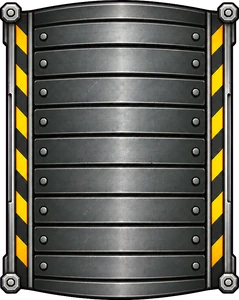
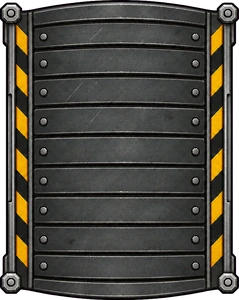
Стальной мост: матовый спрайт, земля у краёв, трава и мох на бортиках
Claude-Session: https://claude.ai/code/session_013R86rVRDV7uvtfdFLL6VJw

diff --git a/sw.js b/sw.js
@@ -1,6 +1,6 @@
-/* «Две базы» offline cache, version 2026.11.13-2150. A new version of this file makes phones fetch the new game;
+/* «Две базы» offline cache, version 2026.11.13-2212. A new version of this file makes phones fetch the new game;
    files whose content didn't change are copied from the old cache instead of downloaded again. */
-const V='dvebazy-2026.11.13-2150',H={"base_blue.webp": "3fa30d2184", "base_red.webp": "7dbdedfcd1", "crater.webp": "f8f526da4a", "crystal.webp": "3a4d69ffd7", "crystal_empty.webp": "e0bfd176b7", "desert.mp3": "4e820be7a4", "field_empty.webp": "1a89de323f", "field_full.webp": "5ce65390f6", "forest.mp3": "4d73b83bec", "hq_blue.webp": "9fd8e7e807", "hq_red.webp": "971d8873b5", "hv_e_blue.webp": "0fb54e58f2", "hv_e_red.webp": "dadb0cb8e0", "hv_f_blue.webp": "0eaca5d65e", "hv_f_red.webp": "1a6f973922", "intro.mp3": "d06e8482e9", "lost.mp3": "640926f4fa", "nuke.webp": "3bd289d94c", "ref_blue.webp": "55d23168b2", "ref_red.webp": "3c357584ff", "rocket.webp": "071c1a603f", "titan.mp3": "74a7fba796", "titan_hull_blue.webp": "b95fc02d02", "titan_hull_red.webp": "bc3479a55e", "titan_tur_blue.webp": "3a694cdb51", "titan_tur_red.webp": "4c836f3f95", "tw_can_blue.webp": "39c2cdb5df", "tw_can_red.webp": "11768d7b6d", "tw_mg_blue.webp": "f2a7462850", "tw_mg_red.webp": "b13edf318a", "tw_rkt_blue.webp": "890841b140", "tw_rkt_red.webp": "1cd20dd65c", "tw_tes_blue.webp": "f8dbac1346", "tw_tes_red.webp": "35dace5877", "victory.mp3": "86da21c965", "wave.webp": "02e3191a09", "winter.mp3": "c049c90e71", "voice_balist1.mp3": "a809bffd15", "voice_batk1.mp3": "bc1cce2b93", "voice_bomb1.mp3": "3e85b9b9dc", "voice_first1.mp3": "5d89f62894", "voice_first2.mp3": "6f591c10d3", "voice_first3.mp3": "de270f2917", "voice_first4.mp3": "52d929dd20", "voice_first5.mp3": "475b1aa197", "voice_first6.mp3": "d2ce90c984", "voice_first7.mp3": "222510fe73", "voice_hvdie1.mp3": "c1c6b9d714", "voice_loh1.mp3": "21e001d1e4", "voice_loh10.mp3": "41e66ff026", "voice_loh2.mp3": "e7da3dd047", "voice_loh3.mp3": "5cc145f5da", "voice_loh4.mp3": "58b7b9dbe7", "voice_loh5.mp3": "1426e425ce", "voice_loh6.mp3": "2053d0fb8a", "voice_loh7.mp3": "b546dc0fcb", "voice_loh8.mp3": "373d27d207", "voice_loh9.mp3": "ee76b7cbbf", "voice_lose1.mp3": "0965212c4d", "voice_lose2.mp3": "0272edf688", "voice_lose3.mp3": "fcb16aa0a5", "voice_lose4.mp3": "f4663fb4e3", "voice_lose5.mp3": "606ac4c1cf", "voice_lose6.mp3": "83a1fe1747", "voice_mazor1.mp3": "0a2f8341b5", "voice_mazor2.mp3": "2d0ef74267", "voice_mine2.mp3": "5ebf9d3ec6", "voice_mset1.mp3": "a35afbeb82", "voice_mvz1.mp3": "77e6ee09e0", "voice_mvz2.mp3": "fb090a12ca", "voice_nkb1.mp3": "52d38c9324", "voice_nkb2.mp3": "01c40b5760", "voice_nkb3.mp3": "39fe27bdf7", "voice_nkb4.mp3": "64aef97f88", "voice_nkb5.mp3": "4d31a020df", "voice_nkb6.mp3": "789a890588", "voice_nuke2.mp3": "8ca89b5589", "voice_ogon1.mp3": "c9d67acb12", "voice_orud1.mp3": "3026d1e2ee", "voice_rzap1.mp3": "2e0d131a35", "voice_vrag1.mp3": "028cb3b269", "voice_vrag2.mp3": "2e10b723e9", "voice_vrag3.mp3": "6079f5e810", "voice_vrag4.mp3": "8f7fa0ef37", "voice_vrag5.mp3": "e94b070c67", "voice_vrag6.mp3": "cb9915cce8", "voice_vrag7.mp3": "7ed2c5a974", "voice_vrag8.mp3": "48edfe60b2", "voice_vrag9.mp3": "8b0f4d86ee", "voice_win1.mp3": "f3f0a603b5", "voice_win2.mp3": "12950c5326", "voice_win3.mp3": "62d5e009ec", "voice_win4.mp3": "c6f262900b", "voice_win5.mp3": "63d2a5f9c8", "voice_bomb2.mp3": "2a7dccab6b", "voice_bomb3.mp3": "9939c42554", "voice_bomb4.mp3": "ae8e689c51", "voice_bomb5.mp3": "a8e38dbf99", "voice_bomb6.mp3": "5ad7691213", "voice_bomb7.mp3": "68265021c3", "voice_mset2.mp3": "e2e92e7433", "voice_mset3.mp3": "a9811a1536", "voice_mset4.mp3": "8173956a14", "voice_tout1.mp3": "e36d93eff4", "voice_tout2.mp3": "32e7428350", "voice_tout3.mp3": "9fca62bcdf", "voice_tout4.mp3": "3e314749bc", "voice_tout5.mp3": "5fcc940e4d", "voice_tout6.mp3": "fac430fb0f", "voice_tout7.mp3": "979fea3bea", "voice_tout8.mp3": "01a95c5d7b", "voice_tout9.mp3": "6bfcb1b4f9", "voice_etout1.mp3": "43c1b6aaf3", "voice_etout2.mp3": "bd5d728dc7", "voice_etout3.mp3": "9fd5dfc497", "voice_etout4.mp3": "781294a546", "voice_etout5.mp3": "d430e427bc", "voice_orud2.mp3": "aa9e1b81be", "voice_orud3.mp3": "705171a146", "voice_orud4.mp3": "238aca5997", "voice_orud5.mp3": "339952603c", "voice_tlow1.mp3": "785ec7eec0", "voice_tlow2.mp3": "96d601ac89", "voice_tlow3.mp3": "74a22eaaeb", "voice_tlow4.mp3": "fe8e1de87d", "voice_tlow5.mp3": "3cc923bbde", "voice_tlow6.mp3": "4c544afc32", "voice_tlow7.mp3": "32148d5608", "voice_tlow8.mp3": "aa26e23409", "voice_tlow9.mp3": "3085b4d856", "sw2_grass.webp": "ae9bb5b54f", "sw2_mud.webp": "be0d1aced4", "sw2_water.webp": "e2eb74a170", "sw2_atlas.webp": "427607d22b", "sw2_atlas2.webp": "8e1c286c2d", "sw2_pads.webp": "1d18fc9a44", "sw2_atlas3.webp": "28ae61a313", "campaign_map.webp": "a477e42c26", "camp_flags.webp": "bdd397d7fb", "gate_l.webp": "33dd6c659c", "gate_r.webp": "bce02067fe", "gate_logo.webp": "975690c1a2", "hg_icons_free.webp": "910e6c103f", "hg_icons_sup.webp": "25639c2240", "hg_icons_harv.webp": "787070f3e2", "hg_icons_tow.webp": "7943557806", "hg_icons_tit.webp": "2a0621a74b", "mrd_s.webp": "9e3aaed637", "mrd_c.webp": "9969b8a8a2", "meadow_pads.webp": "9990b14e0d", "bridge_wood.webp": "cd4e3475aa", "bridge_steel.webp": "69a4621858", "manifest.webmanifest": "7015537d8d", "icon-192.png": "3f01f503e0", "icon-512.png": "ea3305bba6", "icon-180.png": "5713f46e1f", "splash-512.png": "03f3510d8f"};
+const V='dvebazy-2026.11.13-2212',H={"base_blue.webp": "3fa30d2184", "base_red.webp": "7dbdedfcd1", "crater.webp": "f8f526da4a", "crystal.webp": "3a4d69ffd7", "crystal_empty.webp": "e0bfd176b7", "desert.mp3": "4e820be7a4", "field_empty.webp": "1a89de323f", "field_full.webp": "5ce65390f6", "forest.mp3": "4d73b83bec", "hq_blue.webp": "9fd8e7e807", "hq_red.webp": "971d8873b5", "hv_e_blue.webp": "0fb54e58f2", "hv_e_red.webp": "dadb0cb8e0", "hv_f_blue.webp": "0eaca5d65e", "hv_f_red.webp": "1a6f973922", "intro.mp3": "d06e8482e9", "lost.mp3": "640926f4fa", "nuke.webp": "3bd289d94c", "ref_blue.webp": "55d23168b2", "ref_red.webp": "3c357584ff", "rocket.webp": "071c1a603f", "titan.mp3": "74a7fba796", "titan_hull_blue.webp": "b95fc02d02", "titan_hull_red.webp": "bc3479a55e", "titan_tur_blue.webp": "3a694cdb51", "titan_tur_red.webp": "4c836f3f95", "tw_can_blue.webp": "39c2cdb5df", "tw_can_red.webp": "11768d7b6d", "tw_mg_blue.webp": "f2a7462850", "tw_mg_red.webp": "b13edf318a", "tw_rkt_blue.webp": "890841b140", "tw_rkt_red.webp": "1cd20dd65c", "tw_tes_blue.webp": "f8dbac1346", "tw_tes_red.webp": "35dace5877", "victory.mp3": "86da21c965", "wave.webp": "02e3191a09", "winter.mp3": "c049c90e71", "voice_balist1.mp3": "a809bffd15", "voice_batk1.mp3": "bc1cce2b93", "voice_bomb1.mp3": "3e85b9b9dc", "voice_first1.mp3": "5d89f62894", "voice_first2.mp3": "6f591c10d3", "voice_first3.mp3": "de270f2917", "voice_first4.mp3": "52d929dd20", "voice_first5.mp3": "475b1aa197", "voice_first6.mp3": "d2ce90c984", "voice_first7.mp3": "222510fe73", "voice_hvdie1.mp3": "c1c6b9d714", "voice_loh1.mp3": "21e001d1e4", "voice_loh10.mp3": "41e66ff026", "voice_loh2.mp3": "e7da3dd047", "voice_loh3.mp3": "5cc145f5da", "voice_loh4.mp3": "58b7b9dbe7", "voice_loh5.mp3": "1426e425ce", "voice_loh6.mp3": "2053d0fb8a", "voice_loh7.mp3": "b546dc0fcb", "voice_loh8.mp3": "373d27d207", "voice_loh9.mp3": "ee76b7cbbf", "voice_lose1.mp3": "0965212c4d", "voice_lose2.mp3": "0272edf688", "voice_lose3.mp3": "fcb16aa0a5", "voice_lose4.mp3": "f4663fb4e3", "voice_lose5.mp3": "606ac4c1cf", "voice_lose6.mp3": "83a1fe1747", "voice_mazor1.mp3": "0a2f8341b5", "voice_mazor2.mp3": "2d0ef74267", "voice_mine2.mp3": "5ebf9d3ec6", "voice_mset1.mp3": "a35afbeb82", "voice_mvz1.mp3": "77e6ee09e0", "voice_mvz2.mp3": "fb090a12ca", "voice_nkb1.mp3": "52d38c9324", "voice_nkb2.mp3": "01c40b5760", "voice_nkb3.mp3": "39fe27bdf7", "voice_nkb4.mp3": "64aef97f88", "voice_nkb5.mp3": "4d31a020df", "voice_nkb6.mp3": "789a890588", "voice_nuke2.mp3": "8ca89b5589", "voice_ogon1.mp3": "c9d67acb12", "voice_orud1.mp3": "3026d1e2ee", "voice_rzap1.mp3": "2e0d131a35", "voice_vrag1.mp3": "028cb3b269", "voice_vrag2.mp3": "2e10b723e9", "voice_vrag3.mp3": "6079f5e810", "voice_vrag4.mp3": "8f7fa0ef37", "voice_vrag5.mp3": "e94b070c67", "voice_vrag6.mp3": "cb9915cce8", "voice_vrag7.mp3": "7ed2c5a974", "voice_vrag8.mp3": "48edfe60b2", "voice_vrag9.mp3": "8b0f4d86ee", "voice_win1.mp3": "f3f0a603b5", "voice_win2.mp3": "12950c5326", "voice_win3.mp3": "62d5e009ec", "voice_win4.mp3": "c6f262900b", "voice_win5.mp3": "63d2a5f9c8", "voice_bomb2.mp3": "2a7dccab6b", "voice_bomb3.mp3": "9939c42554", "voice_bomb4.mp3": "ae8e689c51", "voice_bomb5.mp3": "a8e38dbf99", "voice_bomb6.mp3": "5ad7691213", "voice_bomb7.mp3": "68265021c3", "voice_mset2.mp3": "e2e92e7433", "voice_mset3.mp3": "a9811a1536", "voice_mset4.mp3": "8173956a14", "voice_tout1.mp3": "e36d93eff4", "voice_tout2.mp3": "32e7428350", "voice_tout3.mp3": "9fca62bcdf", "voice_tout4.mp3": "3e314749bc", "voice_tout5.mp3": "5fcc940e4d", "voice_tout6.mp3": "fac430fb0f", "voice_tout7.mp3": "979fea3bea", "voice_tout8.mp3": "01a95c5d7b", "voice_tout9.mp3": "6bfcb1b4f9", "voice_etout1.mp3": "43c1b6aaf3", "voice_etout2.mp3": "bd5d728dc7", "voice_etout3.mp3": "9fd5dfc497", "voice_etout4.mp3": "781294a546", "voice_etout5.mp3": "d430e427bc", "voice_orud2.mp3": "aa9e1b81be", "voice_orud3.mp3": "705171a146", "voice_orud4.mp3": "238aca5997", "voice_orud5.mp3": "339952603c", "voice_tlow1.mp3": "785ec7eec0", "voice_tlow2.mp3": "96d601ac89", "voice_tlow3.mp3": "74a22eaaeb", "voice_tlow4.mp3": "fe8e1de87d", "voice_tlow5.mp3": "3cc923bbde", "voice_tlow6.mp3": "4c544afc32", "voice_tlow7.mp3": "32148d5608", "voice_tlow8.mp3": "aa26e23409", "voice_tlow9.mp3": "3085b4d856", "sw2_grass.webp": "ae9bb5b54f", "sw2_mud.webp": "be0d1aced4", "sw2_water.webp": "e2eb74a170", "sw2_atlas.webp": "427607d22b", "sw2_atlas2.webp": "8e1c286c2d", "sw2_pads.webp": "1d18fc9a44", "sw2_atlas3.webp": "28ae61a313", "campaign_map.webp": "a477e42c26", "camp_flags.webp": "bdd397d7fb", "gate_l.webp": "33dd6c659c", "gate_r.webp": "bce02067fe", "gate_logo.webp": "975690c1a2", "hg_icons_free.webp": "910e6c103f", "hg_icons_sup.webp": "25639c2240", "hg_icons_harv.webp": "787070f3e2", "hg_icons_tow.webp": "7943557806", "hg_icons_tit.webp": "2a0621a74b", "mrd_s.webp": "9e3aaed637", "mrd_c.webp": "9969b8a8a2", "meadow_pads.webp": "9990b14e0d", "bridge_wood.webp": "cd4e3475aa", "bridge_steel.webp": "a76d73254d", "manifest.webmanifest": "7015537d8d", "icon-192.png": "3f01f503e0", "icon-512.png": "ea3305bba6", "icon-180.png": "5713f46e1f", "splash-512.png": "03f3510d8f"};
 self.addEventListener('install',e=>{self.skipWaiting();e.waitUntil((async()=>{const c=await caches.open(V);let oldH={},old=null;
  for(const k of await caches.keys()){if(k===V)continue;const o=await caches.open(k);const r=await o.match('__hashes');if(r){try{oldH=await r.json();old=o;}catch(_){}}}
  await Promise.all(Object.keys(H).map(async f=>{try{if(old&&oldH[f]===H[f]){const r=await old.match(f);if(r){await c.put(f,r);return;}}await c.add(new Request(f,{cache:'reload'}));}catch(_){}}));

diff --git a/index.html b/index.html
@@ -717,7 +717,22 @@ const BRIMG={wood:new Image(),steel:new Image()};for(const k in BRIMG){BRIMG[k].
 function brImg(b,k,x,y,a){const im=BRIMG[k];if(!im.complete||!im.naturalWidth)return false;b.save();b.translate(x,y);b.rotate(a+Math.PI/2);const H=66,W=k==='steel'?44:H*im.width/im.height;b.drawImage(im,-W/2,-H/2,W,H);b.restore();return true;}
 function drawXBridge(b,q,snow){b.save();b.translate(q.x,q.y);b.rotate(q.a);
  for(const s of [-1,1]){const g=b.createLinearGradient(0,s*20,0,s*32);g.addColorStop(0,'rgba(0,0,0,0.38)');g.addColorStop(1,'rgba(0,0,0,0)');b.fillStyle=g;b.fillRect(-15,s>0?20:-32,30,12);}
- if(brImg(b,'steel',0,0,0)){b.restore();return;}
+ if(brImg(b,'steel',0,0,0)){
+  /* set into the ground: dirt heaped against both ends, grass and moss creeping up the side rails */
+  let sd=(Math.round(q.x)*73856093^Math.round(q.y)*19349663)>>>0;const R2=()=>{sd=(sd*1103515245+12345)>>>0;return(sd>>>8)/16777216;};
+  const SAND=snow?['176,150,128','205,190,175']:['200,140,80','222,166,104'];
+  const soft=(x,y,r,c,a)=>{const g=b.createRadialGradient(x,y,0,x,y,r);g.addColorStop(0,'rgba('+c+','+a+')');g.addColorStop(0.6,'rgba('+c+','+a*0.8+')');g.addColorStop(1,'rgba('+c+',0)');b.fillStyle=g;b.beginPath();b.arc(x,y,r,0,6.283);b.fill();};
+  for(const e of [-1,1]){/* a soft heap of road dirt over each end of the deck */
+   for(let i=0;i<9;i++){const y=-16+i*4+(R2()-0.5)*1.5,x=e*(33.5+R2()*1.5);soft(x,y,4+R2()*2,SAND[0],0.95);}
+   for(let i=0;i<7;i++){const y=-15+i*5+(R2()-0.5)*2,x=e*(32+R2()*2);soft(x,y,2.5+R2()*1.8,SAND[1],0.9);}
+   for(let i=0;i<14;i++){const y=-16+R2()*32,x=e*(30+R2()*6);b.fillStyle=R2()<0.6?'rgba(140,90,45,0.55)':'rgba(255,225,180,0.5)';b.fillRect(x,y,1.3,1.3);}
+   for(let i=0;i<3;i++){const y=-14+R2()*28,x=e*(32+R2()*3),r=0.9+R2()*0.8;E(b,x,y,r,r*0.8,'#9A9284',0.6,'rgba(40,30,20,0.7)');}}
+  if(!snow&&MAP.theme!=='sand'&&MAP.theme!=='lava'){const G=['#3E7E22','#58A02E','#74B840'];
+   for(const sdv of [-1,1])for(const e of [-1,1]){if(R2()<0.2)continue;const x0=e*(12+R2()*16),n=8+Math.floor(R2()*5);
+    for(let i=0;i<34;i++){const x=x0+(R2()-0.5)*13,y=sdv*(19+R2()*4.5),r=0.7+R2()*1.0;E(b,x,y,r,r*0.85,i<5?'rgba(46,92,24,0.9)':i<12?'rgba(92,150,48,0.9)':'rgba(150,196,80,0.9)');}
+    for(let i=0;i<n;i++){const x=x0+(R2()-0.5)*11,y=sdv*(24+R2()*1.5),len=3.5+R2()*4.5,ang=(sdv>0?-Math.PI/2:Math.PI/2)+(R2()-0.5)*1.0,w=1.3+R2()*0.7,tx=x+Math.cos(ang)*len,ty=y+Math.sin(ang)*len;
+     b.beginPath();b.moveTo(x-w/2,y);b.quadraticCurveTo((x+tx)/2+(R2()-0.5)*1.2,(y+ty)/2,tx,ty);b.quadraticCurveTo((x+tx)/2,(y+ty)/2,x+w/2,y);b.closePath();b.fillStyle=G[Math.floor(R2()*3)];b.fill();}}}
+  b.restore();return;}
  RR(b,-30,-21,60,42,3,snow?'#6E5236':'#7A5230',2,OL);for(let i=-26;i<30;i+=7)L(b,[[i,-19],[i,19]],'rgba(60,35,15,0.6)',1.2);
  if(snow)for(let i=-24;i<26;i+=9)E(b,i+(i%2?2:-2),-8+(i%3)*6,3,1.6,'rgba(250,253,255,0.85)');
  for(const s of [-1,1]){RR(b,-33,s*21-4,66,8,2,'#3E3F40',1.6,OL);for(let i=-31;i<30;i+=10)P(b,[[i,s*21-4],[i+5,s*21-4],[i+2,s*21+4],[i-3,s*21+4]],'#F2C232');RR(b,-33,s*21-4,66,8,2,null,1.6,OL);}b.restore();}
@@ -3030,9 +3045,9 @@ window.__dbg={get W(){return W},simStep,doCmd,botThink,packSnap,onSnap,setCode:c
 requestAnimationFrame(frame);
 </script>
 
-<div id="appVer">v2026.11.13-2150</div>
+<div id="appVer">v2026.11.13-2212</div>
 <script>
-window.APP_VERSION='2026.11.13-2150';
+window.APP_VERSION='2026.11.13-2212';
 /* the version label only on the lobby screen */
 setInterval(()=>{const l=document.getElementById('lobby'),v=document.getElementById('appVer');if(l&&v)v.style.display=l.hidden?'none':'';},500);
 if('serviceWorker' in navigator){let reloaded=false;
